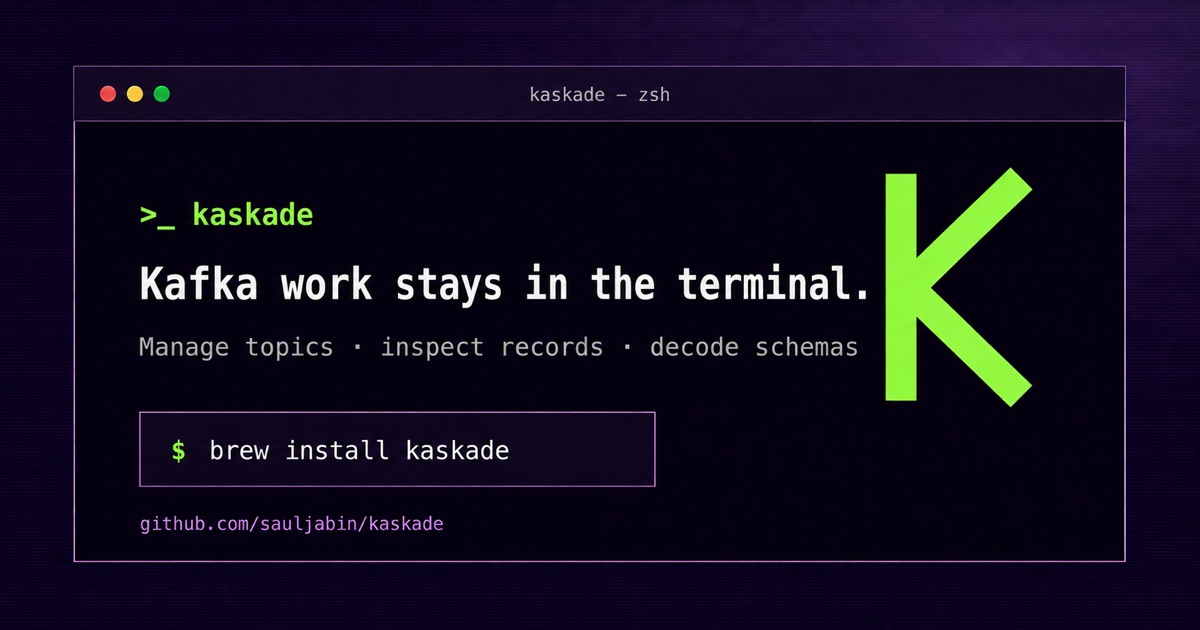
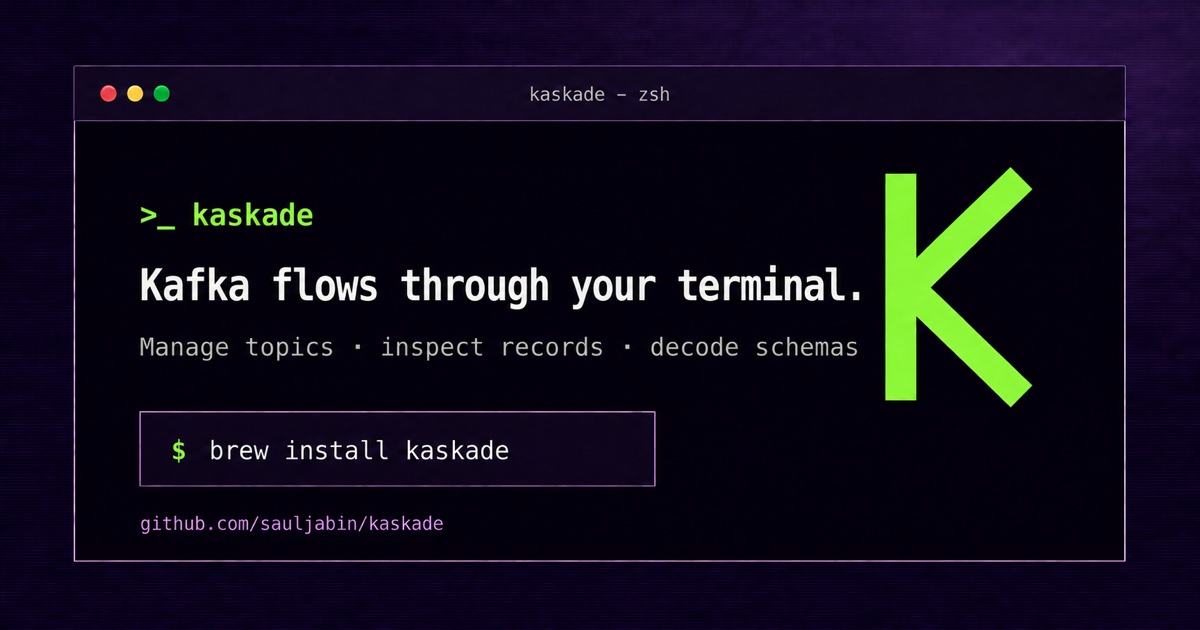
docs(site): adopt flow-focused slogan
Update the landing page, README, metadata, footer, and social preview with the new Kaskade slogan.

Assisted-by: Codex GPT-5.6

diff --git a/site/index.html b/site/index.html
@@ -3,7 +3,7 @@
   <head>
     <meta charset="utf-8">
     <meta name="viewport" content="width=device-width, initial-scale=1">
-    <title>Kaskade — Kafka work stays in the terminal</title>
+    <title>Kaskade — Kafka flows through your terminal</title>
     <meta
       name="description"
       content="A keyboard-driven Kafka TUI for topic administration, record inspection, flexible deserialization, and secure connections."
@@ -17,7 +17,7 @@
 
     <meta property="og:type" content="website">
     <meta property="og:site_name" content="Kaskade">
-    <meta property="og:title" content="Kaskade — Kafka work stays in the terminal">
+    <meta property="og:title" content="Kaskade — Kafka flows through your terminal">
     <meta
       property="og:description"
       content="Administer topics, inspect records, decode schemas, and connect securely without leaving your terminal."
@@ -33,7 +33,7 @@
     <meta property="og:image:alt" content="Kaskade, a keyboard-friendly Kafka terminal interface">
 
     <meta name="twitter:card" content="summary_large_image">
-    <meta name="twitter:title" content="Kaskade — Kafka work stays in the terminal">
+    <meta name="twitter:title" content="Kaskade — Kafka flows through your terminal">
     <meta
       name="twitter:description"
       content="Administer topics, inspect records, decode schemas, and connect securely without leaving your terminal."
@@ -67,7 +67,7 @@
         <div class="hero-grid">
           <div class="hero-copy">
             <p class="eyebrow"><span aria-hidden="true">//</span> Kafka, terminal-first</p>
-            <h1 id="hero-title">Kafka work stays <span>in the terminal.</span></h1>
+            <h1 id="hero-title">Kafka flows through <span>your terminal.</span></h1>
             <p class="hero-description">
               Kaskade brings topic administration and record inspection into one fast,
               keyboard-driven interface, with flexible deserialization and secure
@@ -331,7 +331,7 @@
 
     <footer class="site-footer section-shell">
       <a class="wordmark" href="#top"><span aria-hidden="true">&gt;_</span> kaskade</a>
-      <p>Kafka work stays in the terminal. Open source under the MIT License.</p>
+      <p>Kafka flows through your terminal. Open source under the MIT License.</p>
       <a href="https://github.com/sauljabin/kaskade">github.com/sauljabin/kaskade <span aria-hidden="true">↗</span></a>
     </footer>
 

diff --git a/README.md b/README.md
@@ -12,7 +12,7 @@
 <a href="https://hub.docker.com/r/sauljabin/kaskade/tags"><img alt="Docker version" src="https://img.shields.io/docker/v/sauljabin/kaskade?style=flat-square&logo=docker&logoColor=white&label=docker"></a>
 </p>
 
-Kafka work stays in the terminal. Kaskade brings topic administration and record
+Kafka flows through your terminal. Kaskade brings topic administration and record
 inspection into one fast, keyboard-driven interface, with flexible
 deserialization and secure connections built in.
 
